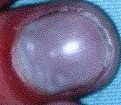
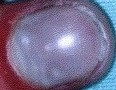
Partial Refine

diff --git a/Batch_Segmentation.py b/Batch_Segmentation.py
@@ -137,7 +137,7 @@ for i in imgList:
 for j in grayImg:
     # {GAUSSIANBLUR VALUE} kernel size is none negative & odd numbers only
     #SMOOTHING(Applying GaussianBlur)
-    ks = 7
+    ks = 5
     sigma = 5
     blur = cv.GaussianBlur(j, (ks, ks), sigma)
     blurImg.append(blur)
@@ -146,7 +146,7 @@ for j in grayImg:
 #Process Canny
 for k in blurImg:
     # CANNY(Finding Edge)
-    canny = cv.Canny(k, 30, 70, L2gradient=True)
+    canny = cv.Canny(k, 45, 70, L2gradient=True)
     cannyEdge.append(canny)
 
 #Make a list of image

diff --git a/PythonThesis/Batch_Segmentation.py b/PythonThesis/Batch_Segmentation.py
@@ -10,7 +10,7 @@ def saveImages(img):
     num = 1
 
     for i in img:
-        cv.imwrite('segmentedImg/' + str(num) + '.png', i)
+        cv.imwrite('segImg/' + str(num) + '.png', i)
         num += 1
 
 def readImg_onFolder(img, dir):
